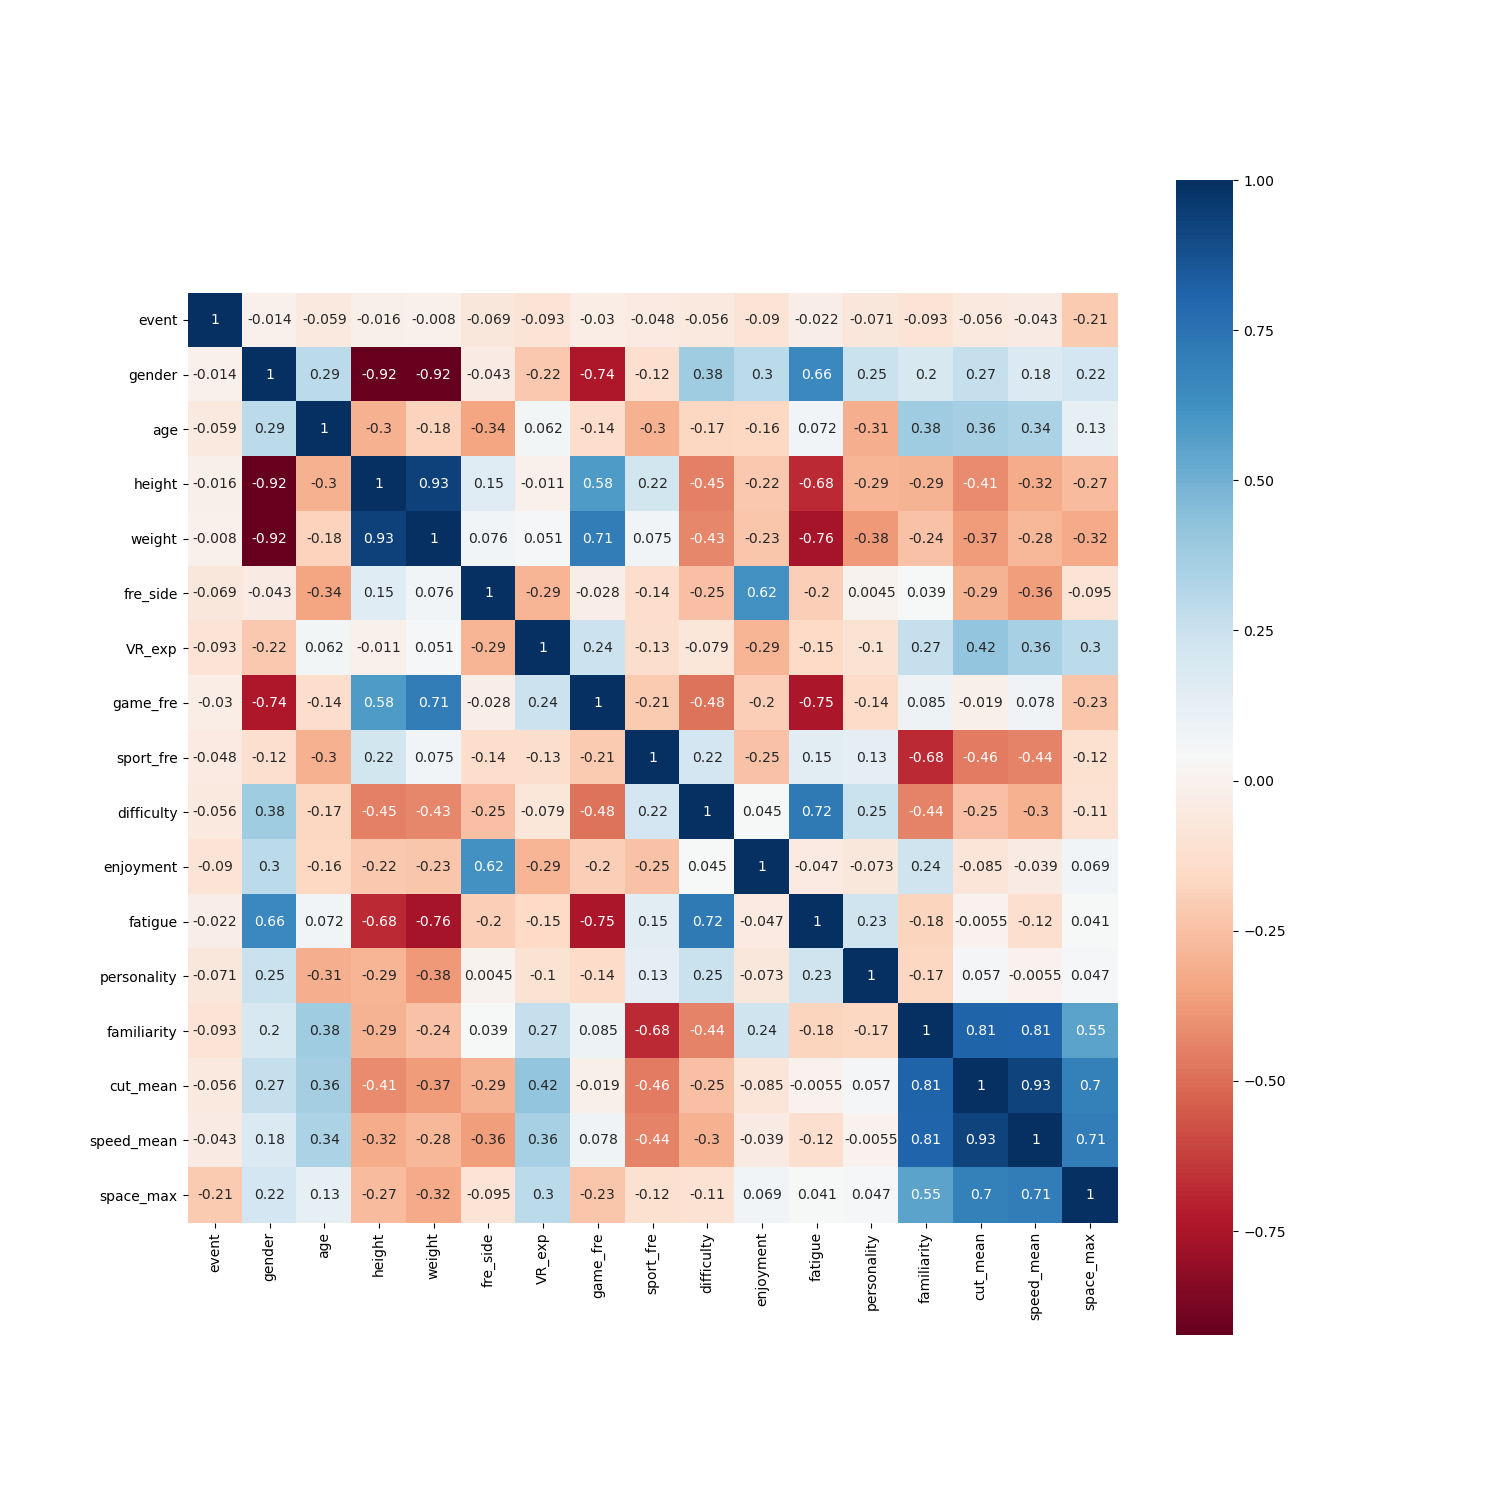
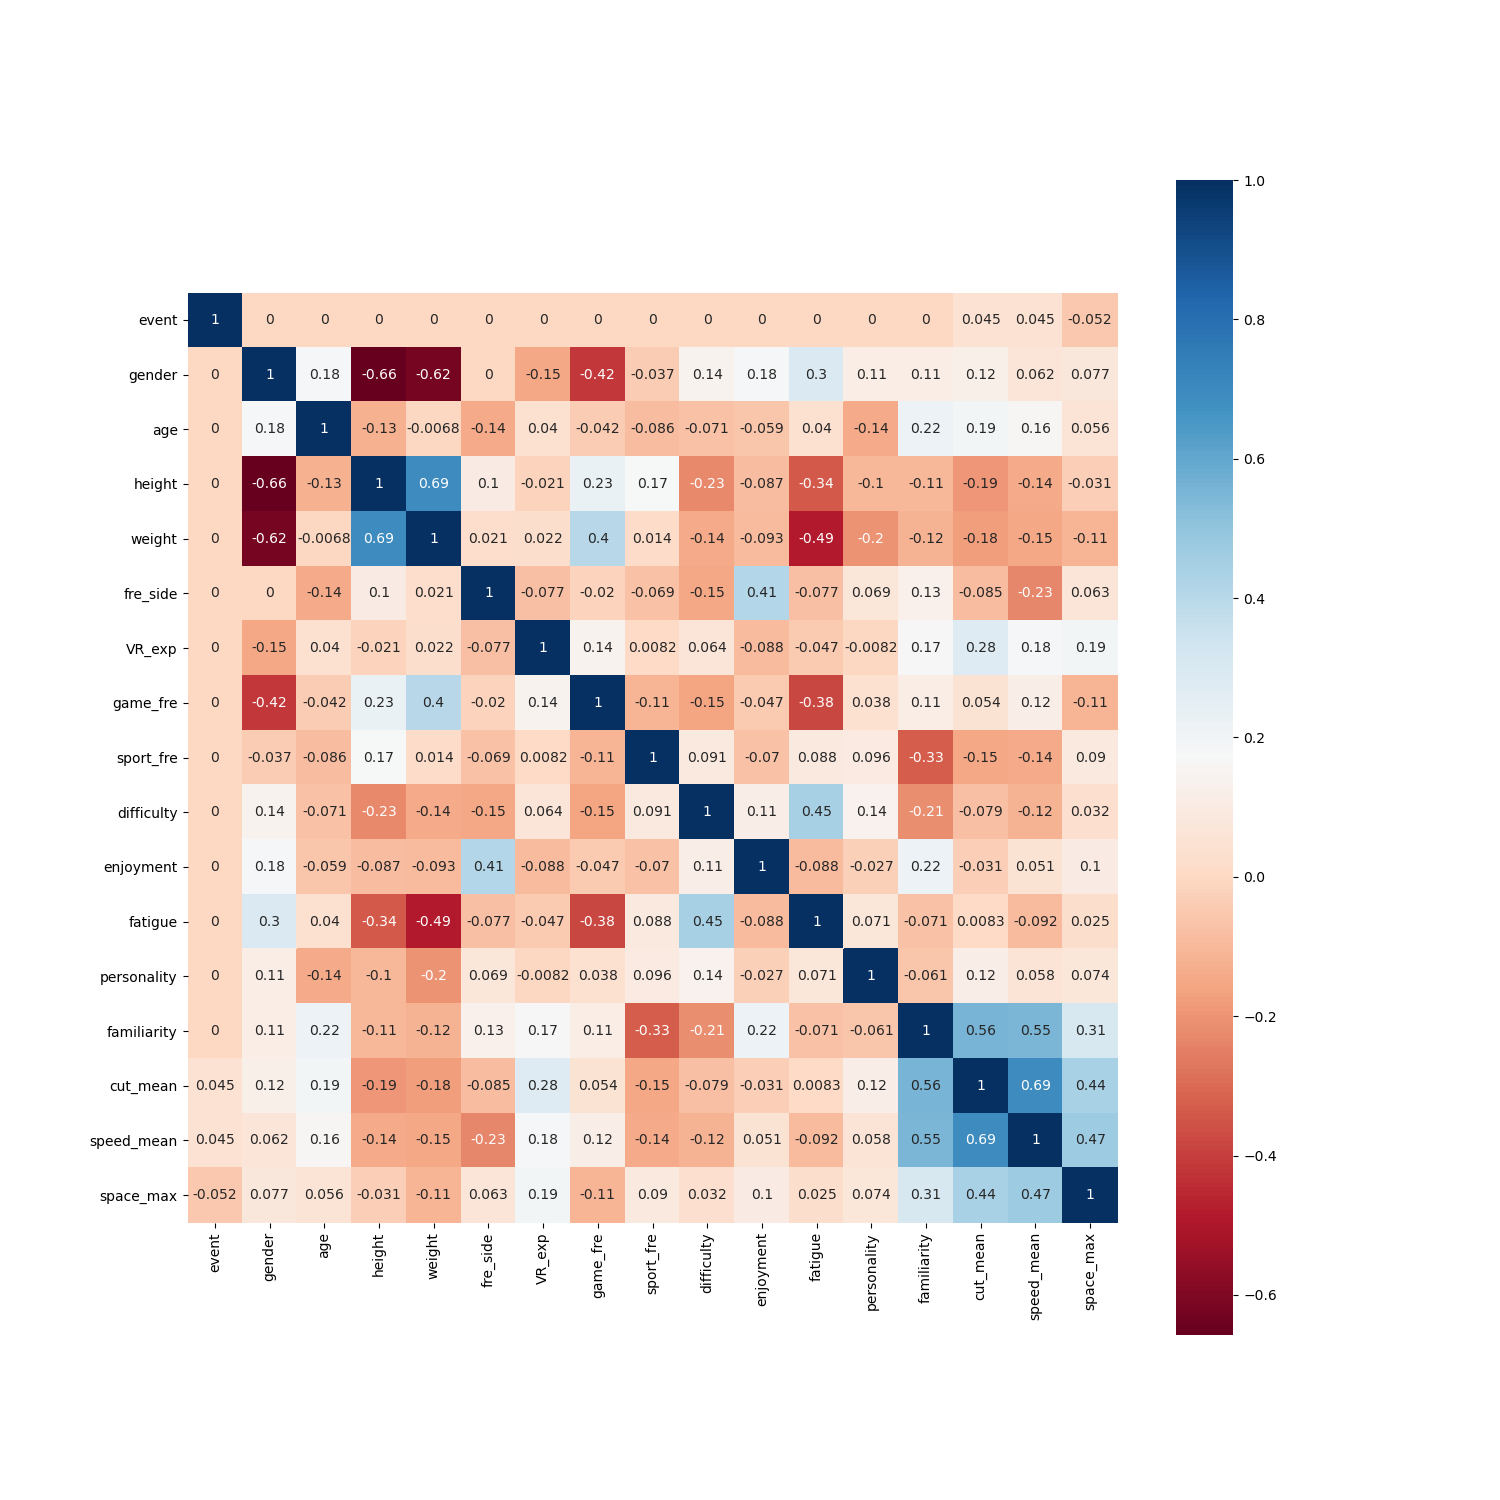
apriori & ripper 更新

Changed region(s): [[0.1227, 0.184, 0.7667, 0.828]]

diff --git a/RIPPER/generate_ripper_dataset.py b/RIPPER/generate_ripper_dataset.py
@@ -67,12 +67,14 @@ if __name__ == '__main__':
     df_2_full.to_csv("../Dataset/RIPPER_full_half.csv", encoding='gbk')
 
     # spearman 相关性筛选后的
-    df_1_spearman = df_1[["gender", "height", "weight", "VR_exp", "sport_fre",
-                          "fatigue", "personality", "familiarity",
+    df_1_spearman = df_1[["event",
+                          "age", "height", "weight", "VR_exp", "sport_fre",
+                          "personality", "familiarity",
                           "cut_mean", "speed_mean", "space_max"]]
     df_1_spearman.to_csv("../Dataset/RIPPER_spearman_quarter.csv", encoding='gbk')
 
-    df_2_spearman = df_2[["gender", "height", "weight", "VR_exp", "sport_fre",
-                          "fatigue", "personality", "familiarity",
+    df_2_spearman = df_2[["event",
+                          "age", "height", "weight", "VR_exp", "sport_fre",
+                          "personality", "familiarity",
                           "cut_mean", "speed_mean", "space_max"]]
     df_2_spearman.to_csv("../Dataset/RIPPER_spearman_half.csv", encoding='gbk')

diff --git a/APRIORI/generate_apriori_dataset.py b/APRIORI/generate_apriori_dataset.py
@@ -2,12 +2,8 @@ import pandas as pd
 import numpy as np
 
 if __name__ == '__main__':
-    df = pd.read_csv("../Dataset/RIPPER_quarter.csv", index_col=0)
+    df = pd.read_csv("../Dataset/RIPPER_spearman_half.csv")
     for row in range(df.shape[0]):
         for col in range(len(df.columns)):
             df.iloc[row, col] = df.columns.tolist()[col] + str(df.iloc[row, col])
-    df = df[["side", "event", "trial",
-             "gender", "age", "height", "weight", "VR_exp", "game_fre", "sport_fre",
-             "difficulty", "enjoyment", "fatigue", "personality", "familiarity",
-             "cut_mean", "speed_mean", "space_mean"]]
     df.to_csv("../Dataset/APRIORI.csv", encoding='gbk')

diff --git a/util/draw_map.py b/util/draw_map.py
@@ -13,7 +13,7 @@ def draw_heatmap(data):
 
     df = pd.DataFrame(data)
 
-    dfData = df.corr()
+    dfData = df.corr(method='spearman')
     plt.subplots(figsize=(15, 15))  # 设置画面大小
     sns.heatmap(dfData, annot=True, vmax=1, square=True, yticklabels=ylabels, xticklabels=ylabels, cmap="RdBu")
     plt.savefig("../images/Map.png")
@@ -21,7 +21,7 @@ def draw_heatmap(data):
 
 
 if __name__ == '__main__':
-    df = pd.read_csv("../Dataset/spearman.csv", index_col=0)
+    df = pd.read_csv("../Dataset/RIPPER_full_quarter.csv", index_col=0)
     print(df.describe())
     # df_df = df[["cut_mean", "speed_mean", "space_max"]]
     draw_heatmap(df)

diff --git a/RIPPER/ripper.py b/RIPPER/ripper.py
@@ -14,8 +14,8 @@ data_frame = pd.read_csv("../Dataset/RIPPER_spearman_half.csv", index_col=0)
 
 # Part a
 # "cut_mean", "speed_mean", "space_max"
-data = data_frame[["gender", "height", "weight", "VR_exp",
-                   "fatigue", "personality", "familiarity",
+data = data_frame[["age", "height", "weight", "VR_exp", "sport_fre",
+                   "personality", "familiarity",
                    "cut_mean"]]
 
 # Part b

diff --git a/APRIORI/apriori.py b/APRIORI/apriori.py
@@ -181,7 +181,7 @@ if __name__ == "__main__":
     # minConfidence = options.minC
     inFile = dataFromFile("../Dataset/APRIORI.csv")
     minSupport = 0.3
-    minConfidence = 0.7
+    minConfidence = 0.8
     items, rules = runApriori(inFile, minSupport, minConfidence)
 
     printResults(items, rules)
